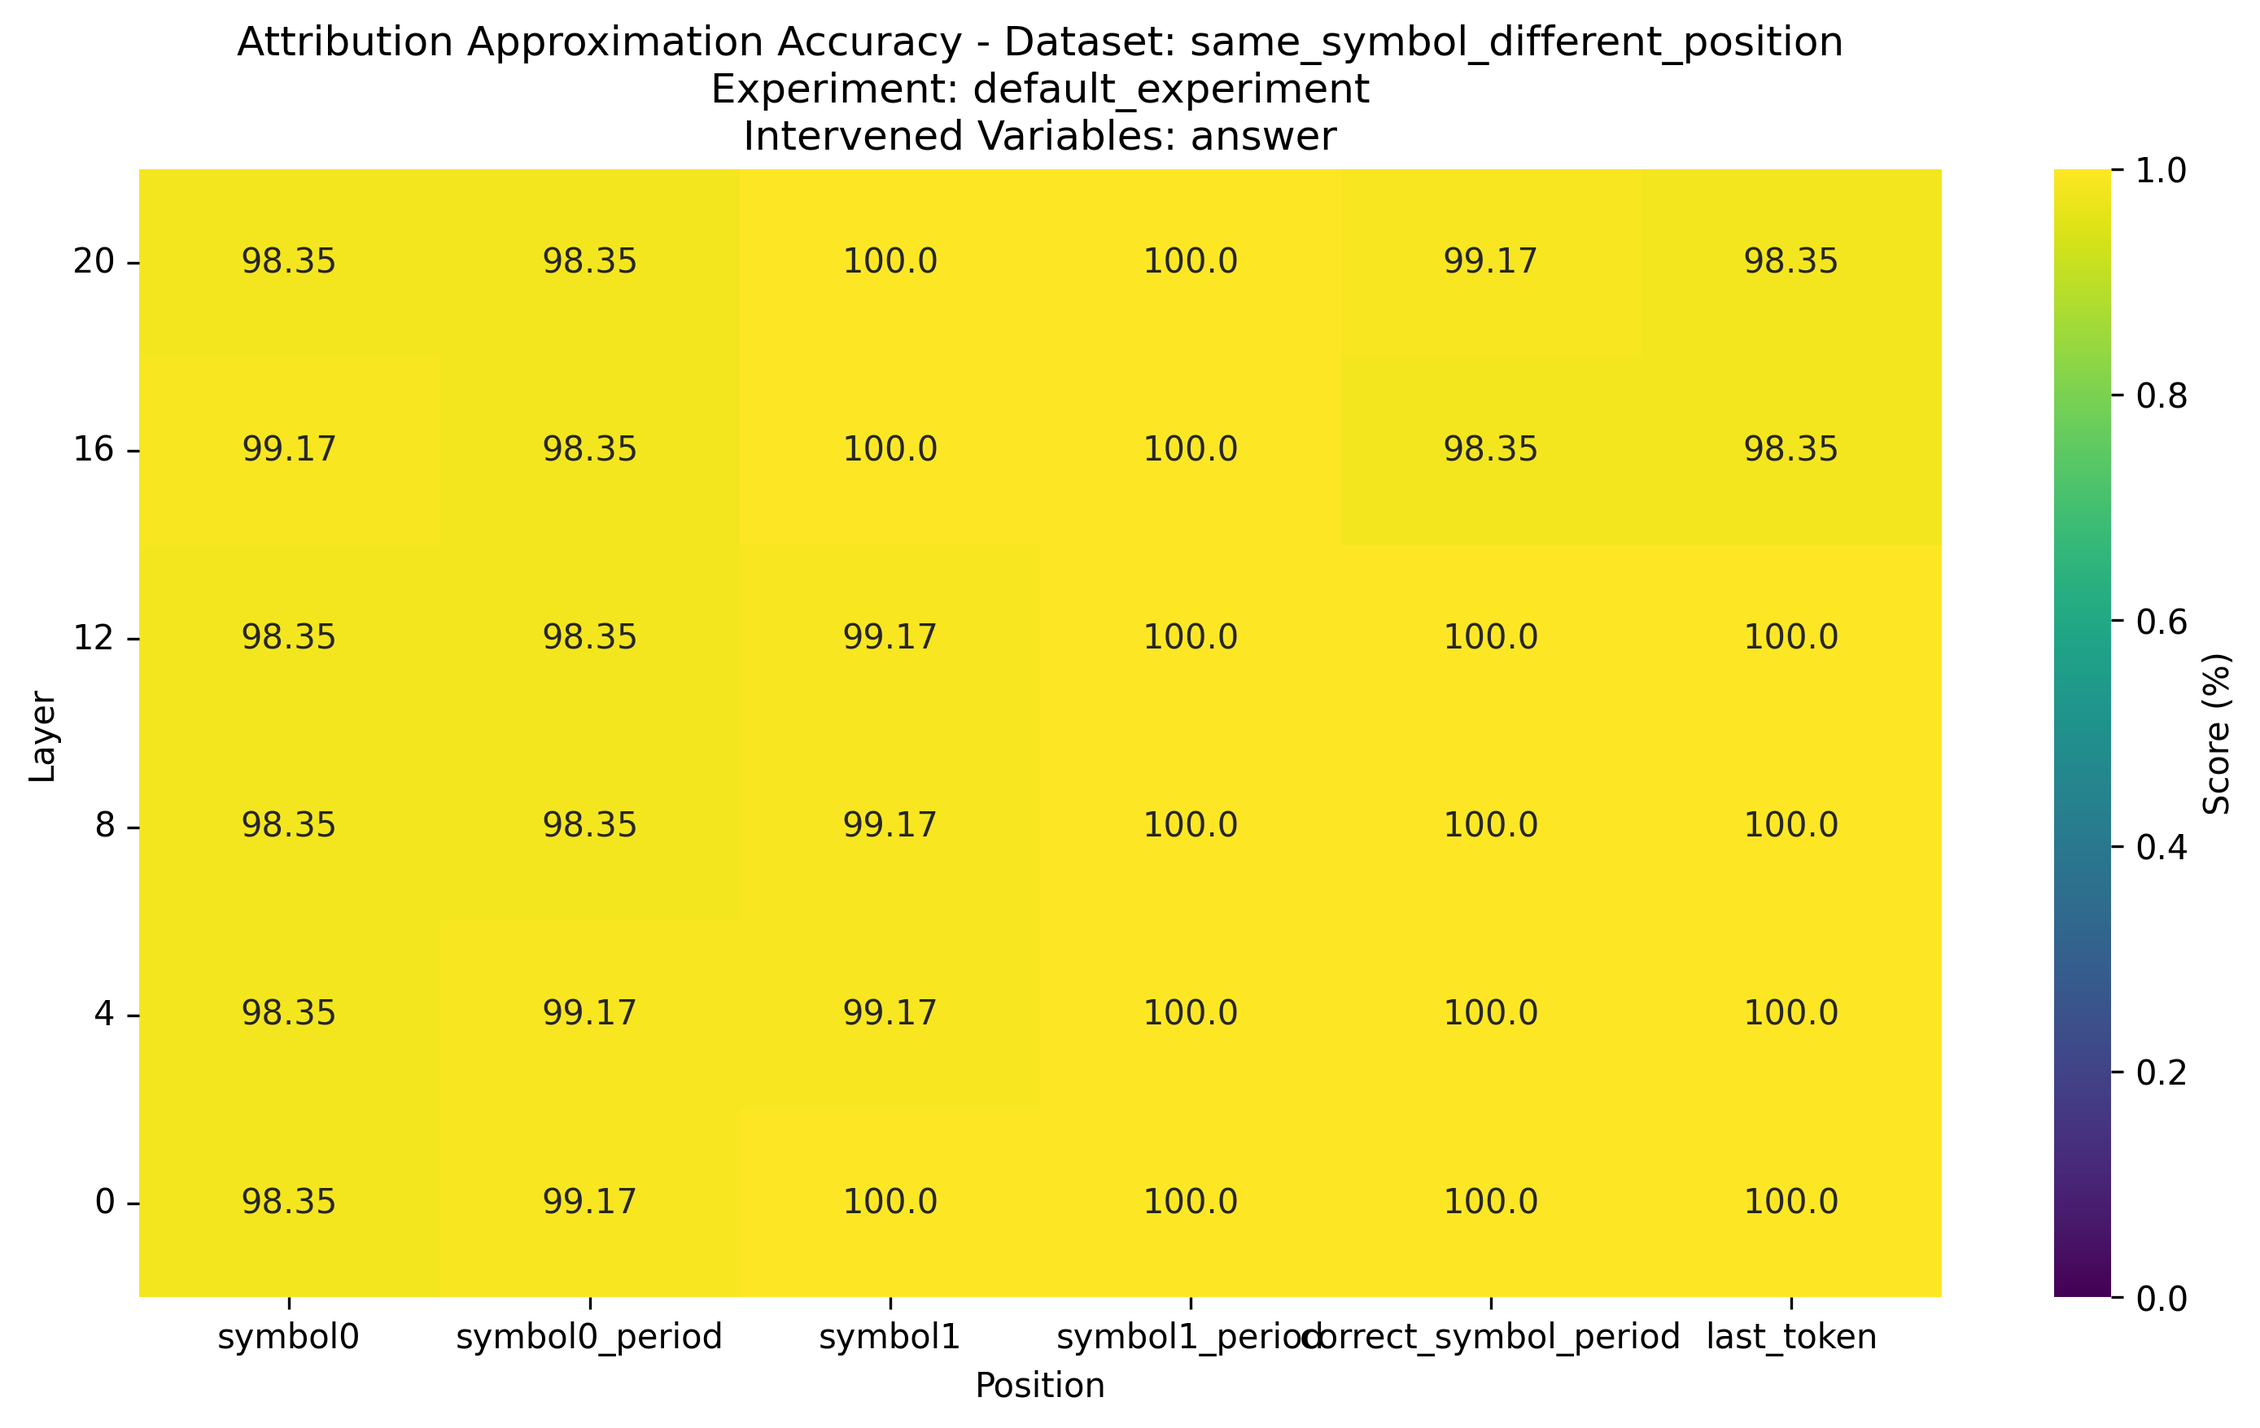
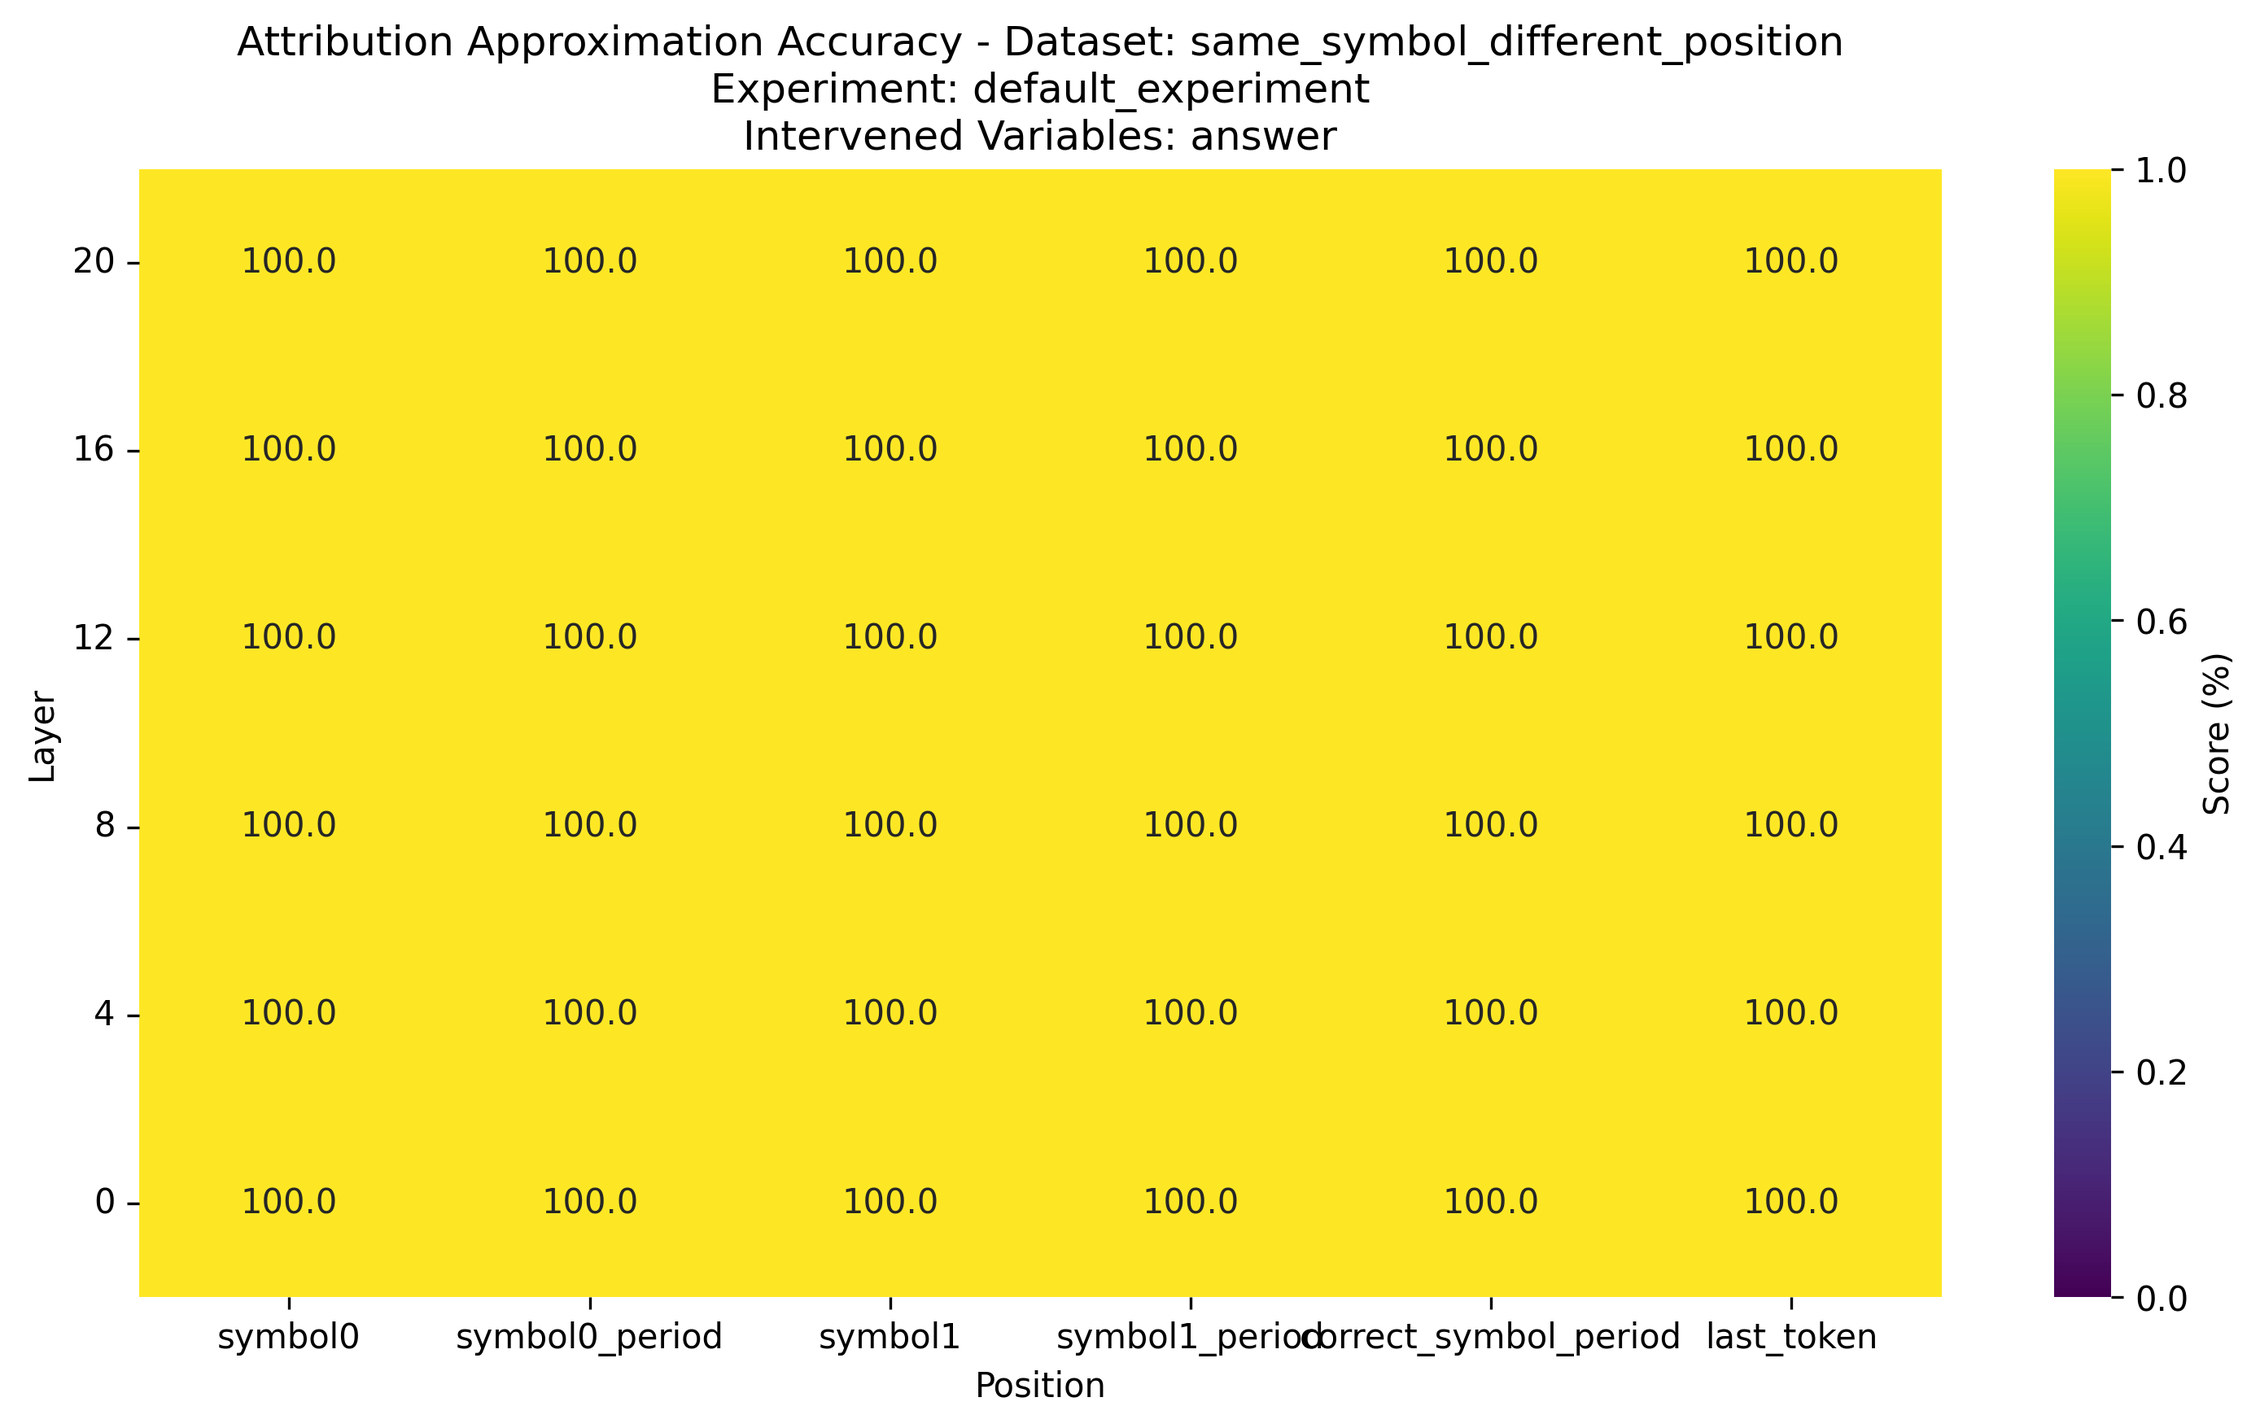
update

diff --git a/causal/causal_utils.py b/causal/causal_utils.py
@@ -12,7 +12,13 @@ from causal.counterfactual_dataset import CounterfactualDataset
 class Checker:
     """Base class for checking if intervention/attribution output is correct."""
 
-    def __call__(self, output_or_score, expected_label=None, is_intervention: bool = True, **kwargs) -> float:
+    def __call__(
+        self,
+        output_or_score,
+        expected_label=None,
+        is_intervention: bool = True,
+        **kwargs,
+    ) -> float:
         """
         Check correctness based on method type.
 
@@ -75,7 +81,9 @@ class CheapArgmaxChecker(Checker):
 
     def check_intervention(self, output_dict, expected_label) -> float:
         """Not supported - CheapArgmaxChecker is only for attribution patching."""
-        raise NotImplementedError("CheapArgmaxChecker only supports attribution patching")
+        raise NotImplementedError(
+            "CheapArgmaxChecker only supports attribution patching"
+        )
 
     @staticmethod
     def compute_score(
@@ -98,8 +106,9 @@ class CheapArgmaxChecker(Checker):
         # correct: [batch_size]
         # other_choices: [batch_size, n_choices]
 
-        assert (logits.argmax(-1) == correct).all(), \
+        assert (logits.argmax(-1) == correct).all(), (
             f"Logits don't argmax to correct tokens. This means the model isn't predicting correctly on the base run."
+        )
         correct_logits = logits.gather(-1, correct.unsqueeze(-1)).squeeze(
             -1
         )  # [batch_size]
@@ -109,48 +118,18 @@ class CheapArgmaxChecker(Checker):
         sum_other_logits = other_logits.sum(dim=-1)  # [batch_size]
 
         # Return metric and sum of other logits
-        return other_logits.shape[
+        return (other_logits.shape[
             -1
-        ] * correct_logits - sum_other_logits, sum_other_logits
+        ] * correct_logits - sum_other_logits), sum_other_logits
 
     @torch.no_grad()
     def check_attribution(self, attribution_score, **kwargs) -> float:
         """
         Check if attribution score indicates correct prediction.
-
-        The attribution_score (approx) approximates: logit_cf[correct]
-        We patch this into base logits and check if argmax is correct.
-
-        Args:
-            attribution_score: Approximated correct logit tensor [batch_size]
-            **kwargs: Must contain:
-                - logits: base logits tensor [batch_size, vocab_size]
-                - correct: correct token index [batch_size]
-
         Returns:
             Tensor of shape [batch_size] with 1.0 where argmax(patched_logits) == correct, 0.0 otherwise
         """
-        logits = kwargs.get("logits")
-        correct_index = kwargs.get("correct")
-
-        if logits is None or correct_index is None:
-            raise ValueError("check_attribution requires 'logits' and 'correct' in kwargs")
-
-        # Batched processing
-        # attribution_score: [batch_size]
-        # correct_index: [batch_size]
-        # logits: [batch_size, vocab_size]
-        logits = logits.clone()  # Don't modify the original
-        # Replace the correct token's logit with the attribution score
-        patched_logits = logits.scatter(
-            dim=-1,
-            index=correct_index.unsqueeze(-1),
-            src=attribution_score.unsqueeze(-1)
-        )
-
-        # Check if the correct token has highest logit
-        predictions = torch.argmax(patched_logits, dim=-1)
-        return (predictions == correct_index).float()
+        return (attribution_score > 0).float()
 
 
 def can_distinguish_with_dataset(
@@ -158,7 +137,7 @@ def can_distinguish_with_dataset(
     causal_model1,
     target_variables1,
     causal_model2=None,
-    target_variables2=None
+    target_variables2=None,
 ):
     """
     Check if two causal models can be distinguished using interchange interventions
@@ -198,27 +177,31 @@ def can_distinguish_with_dataset(
 
         # Run interchange intervention on first model
         setting1 = causal_model1.run_interchange(
-            input_data,
-            {var: counterfactual_inputs[0] for var in target_variables1}
+            input_data, {var: counterfactual_inputs[0] for var in target_variables1}
         )
 
         if causal_model2 is not None and target_variables2 is not None:
             # Run interchange intervention on second model
             setting2 = causal_model2.run_interchange(
-                input_data,
-                {var: counterfactual_inputs[0] for var in target_variables2}
+                input_data, {var: counterfactual_inputs[0] for var in target_variables2}
             )
             if setting1["raw_output"] != setting2["raw_output"]:
                 count += 1
         else:
             # Compare against forward pass of first model
-            if setting1["raw_output"] != causal_model1.run_forward(input_data)["raw_output"]:
+            if (
+                setting1["raw_output"]
+                != causal_model1.run_forward(input_data)["raw_output"]
+            ):
                 count += 1
 
     proportion = count / len(dataset)
-    print(f"Can distinguish between {target_variables1} and {target_variables2}: {count} out of {len(dataset)} examples")
+    print(
+        f"Can distinguish between {target_variables1} and {target_variables2}: {count} out of {len(dataset)} examples"
+    )
     print(f"Proportion of distinguishable examples: {proportion:.2f}")
     return {"proportion": proportion, "count": count}
+
 
 def statement_conjunction_function(filled_statements: List, delimiters: list) -> str:
     """
@@ -227,21 +210,21 @@ def statement_conjunction_function(filled_statements: List, delimiters: list) ->
     Args:
         filled_statements: List of filled statement strings
         delimiters: List of delimiters to use between statements
-    
+
     Returns:
         A single string combining all statements with proper punctuation, seen below:
         "Statement one delimiter one statement two delimiter two ... statement N delimiter N+1."
 
     """
-    #Capitalize first letter and ensure it ends with a period.
+    # Capitalize first letter and ensure it ends with a period.
     fill_index = delimiters.index("FILL")
-    filler = delimiters[fill_index-1]
-    new_delimiters = delimiters[:fill_index-1] + delimiters[fill_index+1:]
+    filler = delimiters[fill_index - 1]
+    new_delimiters = delimiters[: fill_index - 1] + delimiters[fill_index + 1 :]
     for _ in range(len(filled_statements) - len(new_delimiters)):
-        new_delimiters.insert(fill_index-1, filler)
-    
+        new_delimiters.insert(fill_index - 1, filler)
+
     if len(new_delimiters) > len(filled_statements):
-        new_delimiters = new_delimiters[-len(filled_statements):]
+        new_delimiters = new_delimiters[-len(filled_statements) :]
 
     statements = []
     for i in range(len(filled_statements)):
@@ -250,10 +233,10 @@ def statement_conjunction_function(filled_statements: List, delimiters: list) ->
         words = statement.split()
         # Capitalize first letter and ensure it ends with a period.
         words[0] = words[0].capitalize()
-        statements.append(' '.join(words).rstrip(new_delimiters[-1]))
-    conjunction = statements[0] 
+        statements.append(" ".join(words).rstrip(new_delimiters[-1]))
+    conjunction = statements[0]
     for i in range(1, len(statements)):
-        conjunction += new_delimiters[i-1] + statements[i]
+        conjunction += new_delimiters[i - 1] + statements[i]
     conjunction += new_delimiters[-1]
     return conjunction
 
@@ -278,7 +261,7 @@ def compute_attribution_scores(
     datasets: Union[Dict, "CounterfactualDataset"],
     target_variables_list: List[List[str]],
     checker: Callable,
-    pipeline = None,
+    pipeline=None,
 ) -> Dict:
     """
     Compute attribution scores for target variables using checker.
@@ -314,7 +297,7 @@ def compute_attribution_scores(
 
     # Detach tensors before deep copying (tensors with gradients can't be deep copied)
     raw_results_detached = _detach_tensors(raw_results)
-    
+
     # Create a deep copy to avoid modifying the input
     results = copy.deepcopy(raw_results_detached)
 
@@ -374,13 +357,19 @@ def compute_attribution_scores(
 
                 # Compute correctness scores using checker (batched)
                 # Convert to batched tensors
-                approx_tensor = torch.tensor(approx_scores) if not isinstance(approx_scores, torch.Tensor) else approx_scores
+                approx_tensor = (
+                    torch.tensor(approx_scores)
+                    if not isinstance(approx_scores, torch.Tensor)
+                    else approx_scores
+                )
                 logits_tensor = torch.stack(logits)
 
                 # Get COUNTERFACTUAL correct tokens (what the model should output after patching)
                 if pipeline is not None:
                     # Extract counterfactual labels and convert to token IDs
-                    counterfactual_labels = [example["label"] for example in labeled_data]
+                    counterfactual_labels = [
+                        example["label"] for example in labeled_data
+                    ]
                     counterfactual_token_ids = [
                         pipeline.tokenizer.encode(label, add_special_tokens=False)[0]
                         for label in counterfactual_labels
@@ -395,11 +384,15 @@ def compute_attribution_scores(
                     approx_tensor,
                     is_intervention=False,
                     logits=logits_tensor,
-                    correct=counterfactual_tensor  # Check against counterfactual answer!
+                    correct=counterfactual_tensor,  # Check against counterfactual answer!
                 )
 
                 # Convert to list
-                scores = scores_tensor.cpu().tolist() if isinstance(scores_tensor, torch.Tensor) else list(scores_tensor)
+                scores = (
+                    scores_tensor.cpu().tolist()
+                    if isinstance(scores_tensor, torch.Tensor)
+                    else list(scores_tensor)
+                )
 
                 # Store processed results
                 results["dataset"][dataset_name]["model_unit"][model_units_str][
@@ -412,9 +405,9 @@ def compute_attribution_scores(
 def compute_interchange_scores(
     raw_results: Dict,
     causal_model,
-    datasets: Union[Dict, 'CounterfactualDataset'],
+    datasets: Union[Dict, "CounterfactualDataset"],
     target_variables_list: List[List[str]],
-    checker: Callable
+    checker: Callable,
 ) -> Dict:
     """
     Process raw intervention results by computing scores for target variables.
@@ -482,7 +475,9 @@ def compute_interchange_scores(
         if dataset_name not in results["dataset"]:
             continue
 
-        for model_units_str, model_unit_data in results["dataset"][dataset_name]["model_unit"].items():
+        for model_units_str, model_unit_data in results["dataset"][dataset_name][
+            "model_unit"
+        ].items():
             if model_unit_data is None:
                 continue
 
@@ -506,16 +501,20 @@ def compute_interchange_scores(
                 dumped_outputs.extend(batch_strings)
                 # Create individual output dicts for each example in the batch
                 for idx, decoded_str in enumerate(batch_strings):
-                    example_dict = {"sequences": batch_dict["sequences"][idx:idx+1]}
+                    example_dict = {"sequences": batch_dict["sequences"][idx : idx + 1]}
 
                     # Handle top-K formatted scores (list of dicts)
                     if "scores" in batch_dict and batch_dict["scores"]:
                         example_dict["scores"] = []
                         for score_dict in batch_dict["scores"]:
                             sliced_score = {
-                                "top_k_logits": score_dict["top_k_logits"][idx:idx+1],
-                                "top_k_indices": score_dict["top_k_indices"][idx:idx+1],
-                                "top_k_tokens": [score_dict["top_k_tokens"][idx]]
+                                "top_k_logits": score_dict["top_k_logits"][
+                                    idx : idx + 1
+                                ],
+                                "top_k_indices": score_dict["top_k_indices"][
+                                    idx : idx + 1
+                                ],
+                                "top_k_tokens": [score_dict["top_k_tokens"][idx]],
                             }
                             example_dict["scores"].append(sliced_score)
 
@@ -529,15 +528,16 @@ def compute_interchange_scores(
 
                 # Generate expected outputs from causal model
                 labeled_data = causal_model.label_counterfactual_data(
-                    datasets[dataset_name],
-                    target_variables
+                    datasets[dataset_name], target_variables
                 )
 
                 # Validate alignment
-                assert len(labeled_data) == len(dumped_outputs), \
+                assert len(labeled_data) == len(dumped_outputs), (
                     f"Length mismatch: {len(labeled_data)} vs {len(dumped_outputs)}"
-                assert len(labeled_data) == len(flattened_outputs), \
+                )
+                assert len(labeled_data) == len(flattened_outputs), (
                     f"Length mismatch: {len(labeled_data)} vs {len(flattened_outputs)}"
+                )
 
                 # Compute intervention scores - pass neural dict and expected label
                 scores = []
@@ -548,9 +548,8 @@ def compute_interchange_scores(
                     scores.append(float(score))
 
                 # Store processed results in the same structure as perform_interventions
-                results["dataset"][dataset_name]["model_unit"][model_units_str][target_variable_str] = {
-                    "scores": scores,
-                    "average_score": np.mean(scores)
-                }
+                results["dataset"][dataset_name]["model_unit"][model_units_str][
+                    target_variable_str
+                ] = {"scores": scores, "average_score": np.mean(scores)}
 
     return results

diff --git a/experiments/pyvene_core.py b/experiments/pyvene_core.py
@@ -680,8 +680,7 @@ def _run_attribution_patching(
             # where: metric_base = logit_base[correct] - sum(logit_base[other_choices])
             # So: approx = metric_base + grad·Δh + sum(logit_base[other_choices])
             metric_scores_tensor = torch.tensor(data[i][j]["metric_scores"])
-            sum_other_logits_tensor = torch.tensor(data[i][j]["sum_other_logits"])
-            data[i][j]["approx"] = raw_score_per_sample + metric_scores_tensor + sum_other_logits_tensor
+            data[i][j]["approx"] = raw_score_per_sample + metric_scores_tensor
 
     # Clean up the intervenable model to free GPU memory
     _delete_intervenable_model(intervenable_model)
